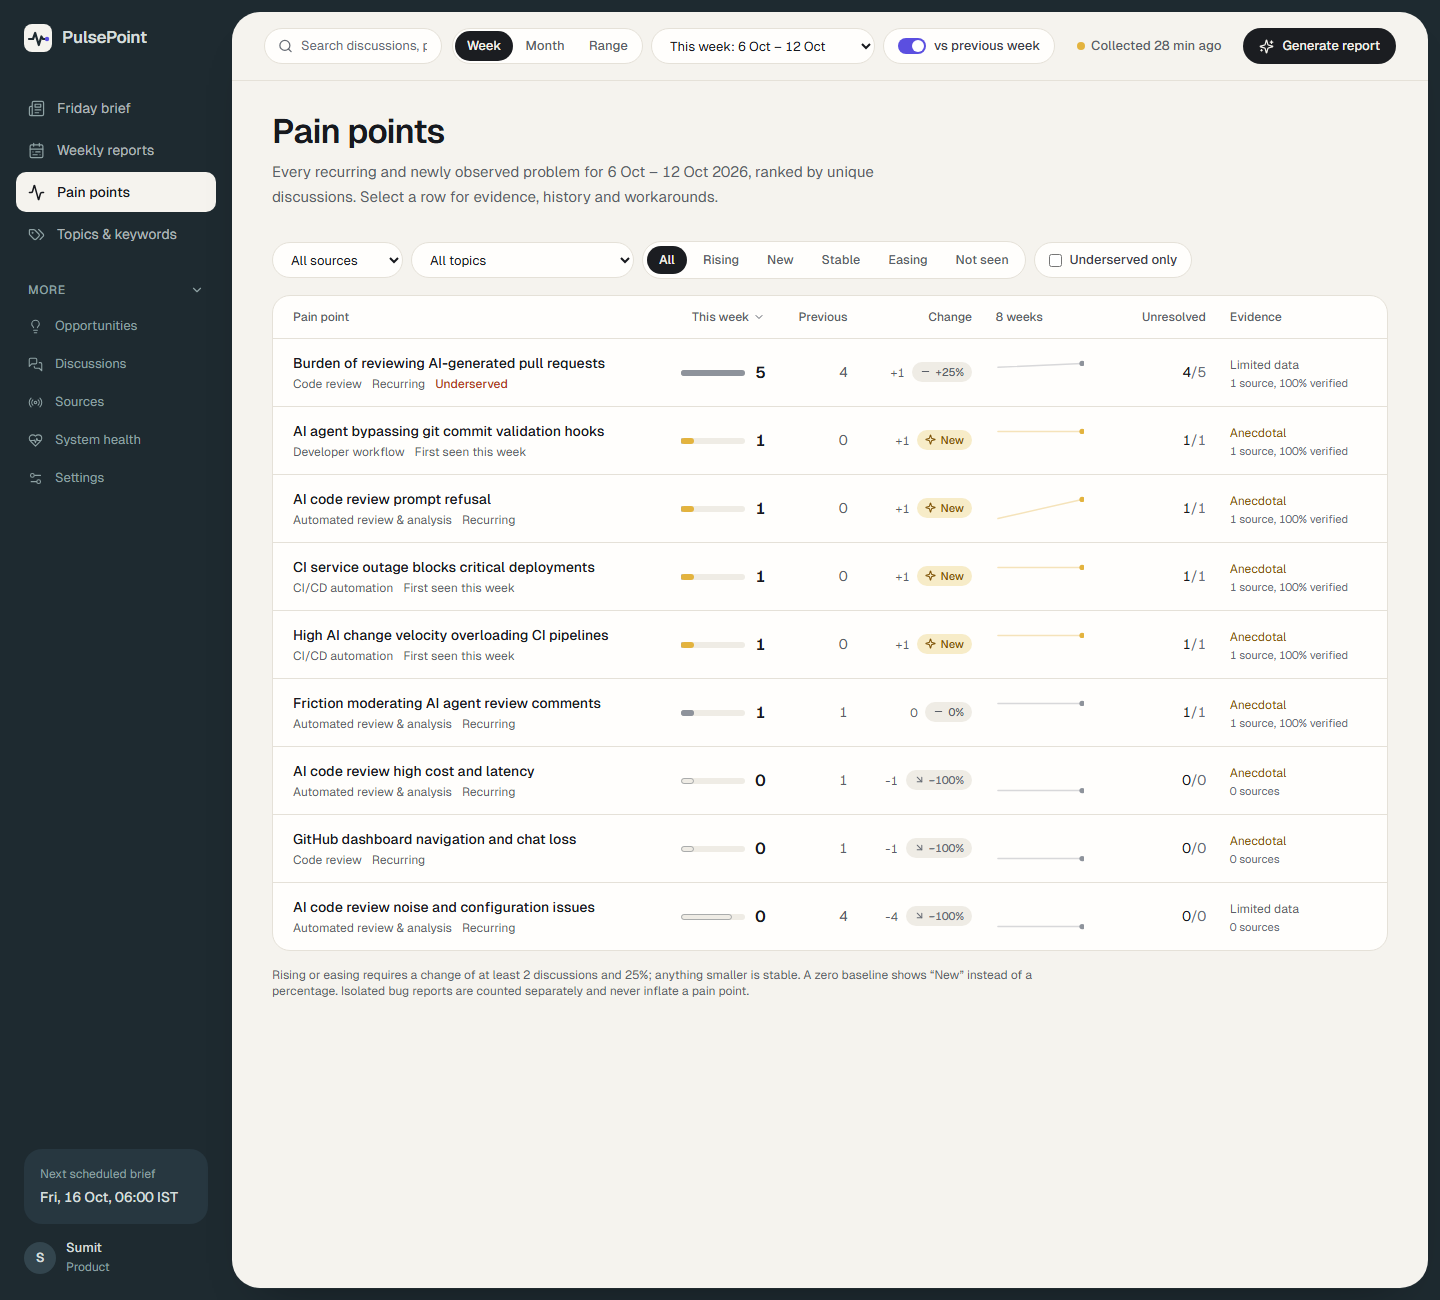
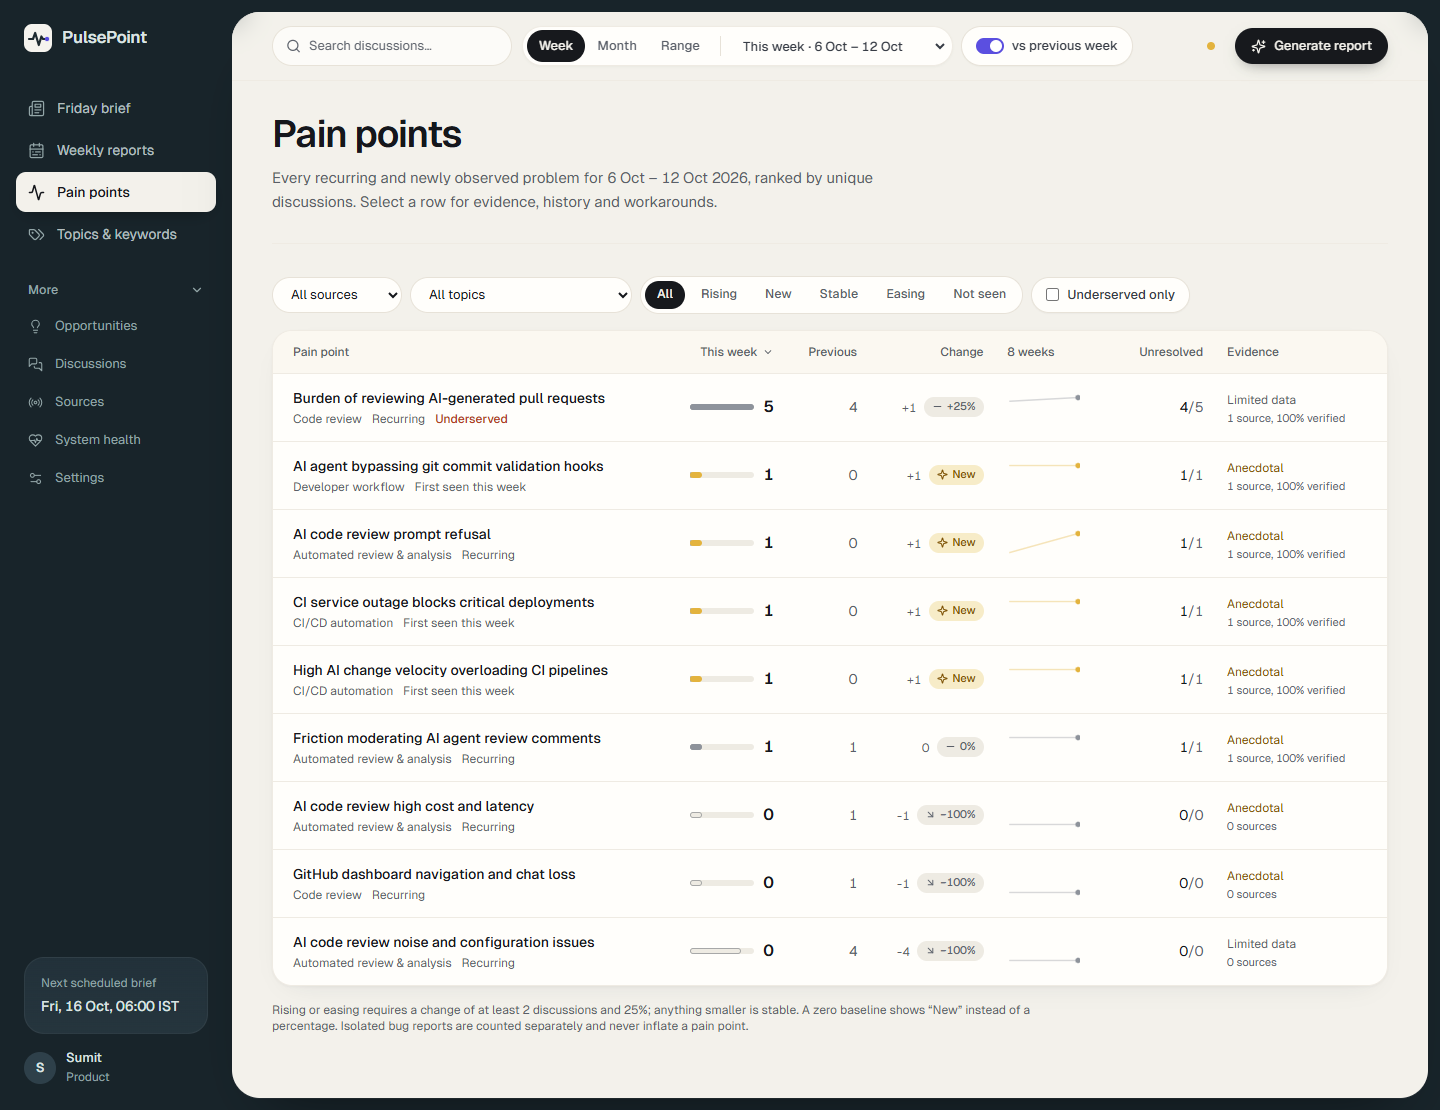
Docs: screenshots of the redesigned live app; redesign verification

diff --git a/docs/LIVE_VERIFICATION.md b/docs/LIVE_VERIFICATION.md
@@ -118,3 +118,15 @@ First collection (3-day look-back): 13 requests, 0 failures; **65 new GitHub thr
 - Resend free plan delivers only to the account owner until a domain is verified.
 - GitHub volume roughly doubles analysis work; runs can leave items queued for the next run.
 - Reddit pending approval; Discord and X not connected.
+
+## Premium redesign (13 Oct 2026, merged to `main`)
+
+Visual redesign only (no data, API, database or logic changes); built on the `redesign` branch, reviewed on a Vercel preview, then merged. Verified on the live URL after deploy:
+
+| Check | Result |
+|---|---|
+| All 10 pages at 1440 px and 390 px (also 1024 and 768 before merge) | ✅ no horizontal scroll, 0 console errors |
+| axe-core 4.10.2, WCAG 2.1 A/AA — brief, month view, Settings, Weekly reports (1440 + 390) | ✅ 0 violations |
+| Interactions: evidence drawer + Escape, "More" menu, Week ↔ Month switch, vote name prompt | ✅ all work, 0 errors |
+| Tests · typecheck · lint · build | ✅ 86 passed · clean · clean · clean |
+| `/api/cron/daily` without the secret | ✅ 401 |

diff --git a/docs/screenshots/README.md b/docs/screenshots/README.md
@@ -1,5 +1,5 @@
-Screenshots of the live app (https://pulsepoint-two.vercel.app) with **real data**, captured 13 Oct 2026
-(desktop at 1440 px with headless Chrome; mobile at a true 390 px viewport with Puppeteer).
+Screenshots of the live app (https://pulsepoint-two.vercel.app) with **real data** after the premium redesign, captured 13 Oct 2026
+(desktop: full pages at 1440 px; mobile: a true 390 px viewport, top of the page; both via Puppeteer).
 
 | File | Screen |
 |---|---|
